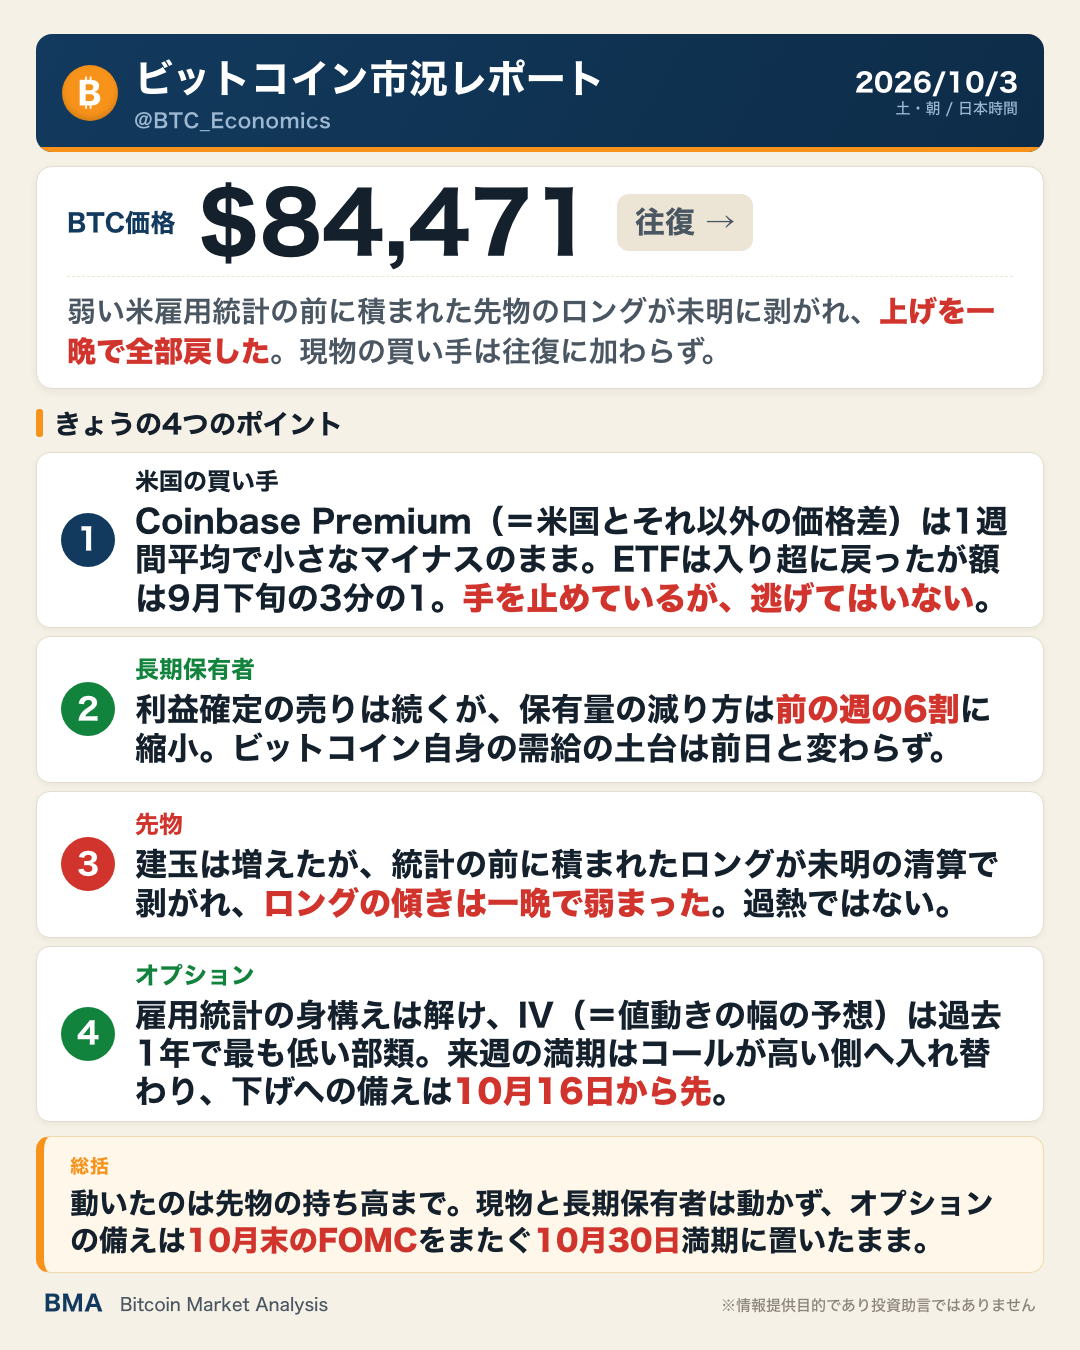
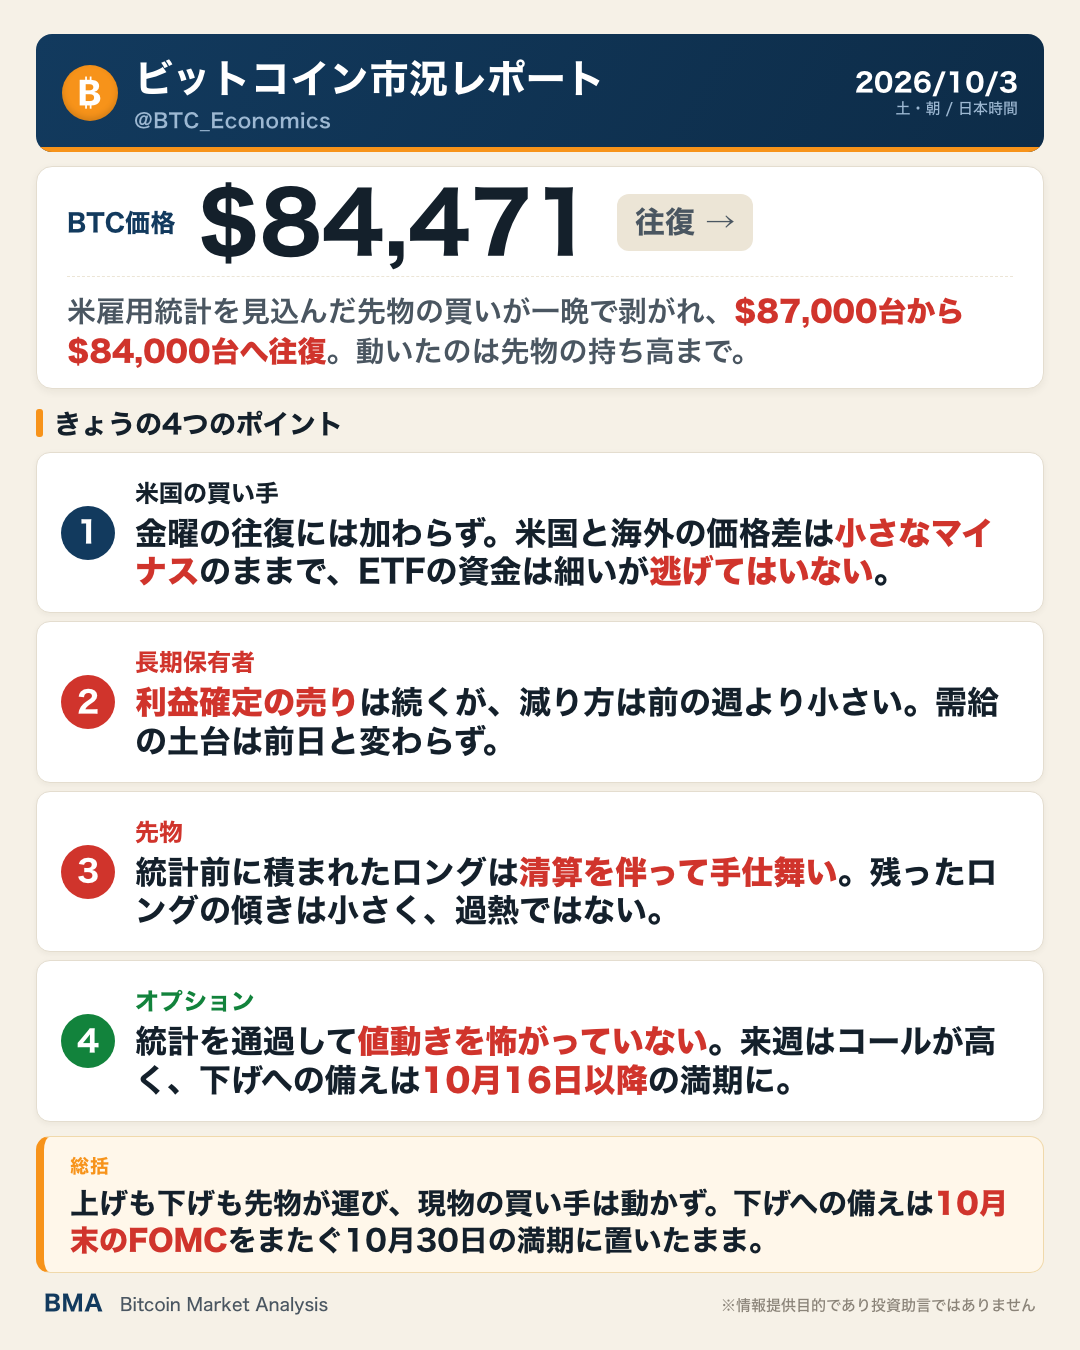
fix(report 2026-10-03): ぼかした言い回しを、建玉と清算の状況証拠による言い切りに
- 「どちらが先かは決まりません」→ 清算が動きを加速させた。未明の下げは清算なしで始まり3時台に加速
- 「説明がつきません」→ 米雇用統計を見込んで積まれたロングが、統計のあとに手仕舞われた（建玉が同じだけ減った）
- 株と逆向きの下げは「共通のきっかけではない」、イランと原油は「効いた形跡はない」と言い切る
- リードの「長期保有者は動いていない」を「売りは続いているが強まっていない」に
- 単独の「統計」を「米雇用統計」に（BMA ADR-0045）

Changed region(s): [[0.0306, 0.3422, 0.9778, 0.84], [0.0611, 0.8711, 0.9472, 0.9333], [0.0611, 0.2178, 0.9167, 0.28]]

diff --git a/market-reports/README.md b/market-reports/README.md
@@ -4,7 +4,7 @@
 
 ## 2026年10月
 
-- **10月3日** — [$87,249へ上げて一晩で全部戻す ― 雇用統計の前に積まれたロングが剥がれ、現物の買い手は動かず](2026-10-03/)
+- **10月3日** — [米雇用統計を見込んだロングが一晩で剥がれ$84,000台へ ― 上げも下げも先物が運び、現物の買い手は動かず](2026-10-03/)
 - **10月2日** — [利上げ観測が後退した夜に$85,200へ ― 先物のロングが2日続けて積まれ、現物の買い手は動かず](2026-10-02/)
 - **10月1日** — [米物価統計が予想を下回り$85,600へ跳ねて往復 ― ショートの清算を伴い、減り続けた建玉は増加へ](2026-10-01/)
 
